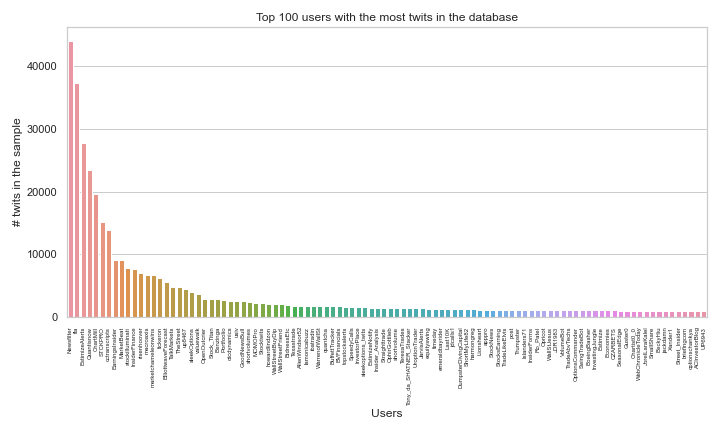
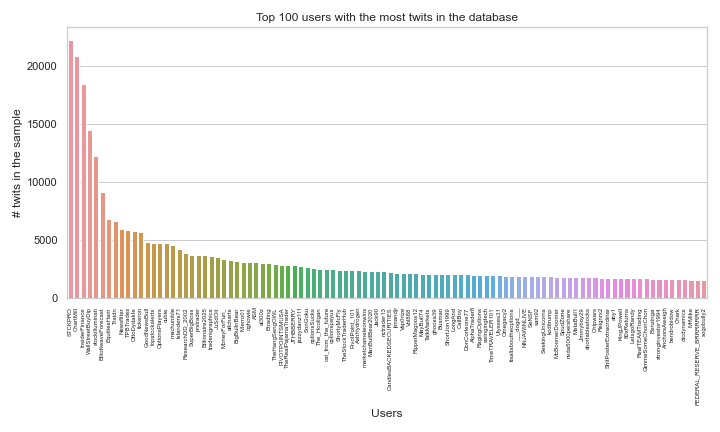
up cleaning

Changed region(s): [[0.0, 0.1204, 1.0, 0.9329], [0.0306, 0.5417, 0.0917, 0.6019]]

diff --git a/CODE/2.CleanDataset.py b/CODE/2.CleanDataset.py
@@ -29,7 +29,7 @@ from pymongo.mongo_client import MongoClient
 os.chdir("C:/Users/ncardenafria/Documents/GitHub/ReplicationRenault2020/")
 export_on = False
 
-#%% Connect to MongoDB and call the DB
+#%% Connect to MongoDB 
 #mongodb password stocktwits
 uri = "mongodb+srv://nataliacardenas:stocktwits@twits.mgv4dfh.mongodb.net/?retryWrites=true&w=majority&appName=Twits"
 
@@ -43,13 +43,15 @@ try:
 except Exception as e:
     print(e)
  
-### Call the database
+#%% Call the database
 db = client["StockTwits"]
-#call only what is needed, else it is going to be super heavy to load 
-#df = pd.DataFrame(db["twits_v2"].find({}))
 
 # Call only the first 100 documents -> test the function 
-dfx = pd.DataFrame(list(db["twits_v2"].find({}).limit(100)))
+#dfx = pd.DataFrame(list(db["twits_v2"].find({}).limit(100)))
+
+#call only what is needed, else it is going to be super heavy to load 
+#df = pd.DataFrame(db["twits"].find({"sentiment": {"$ne": ""}}, {"content": 1, 'user':1, "_id": 1}))
+
 
 #%% cashtag, linktag, usertag 
 
@@ -82,49 +84,18 @@ def clean_content(text):
 #     dfx.loc[i,"c_content"] = clean_content(dfx.loc[i,"content"])
 # dfxx = dfx[["content", "c_content"]]
 
-#### UPDATE DATABASE: not working very well
-def get_c_content(collection, batch_size=10000):
-    """
-    Update the documents in a MongoDB collection by adding a new field 'c_content' with cleaned content.
-    Split upload in batches of size 10000 to avoid having DocumentTooLarge error with bulk update
-
-    Parameters
-    ----------
-    collection : pymongo.collection.Collection
-        The MongoDB collection to update. Use db["twits_v2"].
-
-    batch_size : int, optional
-        The number of documents to process in each batch. Default is 10000.
-
-    Returns
-    -------
-    None
-    """
-    total_docs = collection.count_documents({})
-    for i in range(0, total_docs, batch_size):
-        cursor = list(collection.find({}, skip=i, limit=batch_size))
-        updates = [{"$set": {"c_content": clean_content(doc["content"])}} for doc in cursor]
-        if updates:
-            collection.bulk_write([pymongo.UpdateOne({"_id": doc["_id"]}, update) for doc, update in zip(cursor, updates)])
-        print(i) #just to be able to follow in the console
-
-# Call the update function
-#get_c_content(db["test"])
-
-
-
 
 #%% Find bots and remove them from database
 
-db["twits_v2"].count_documents({}) #1007170 docs
+tot = db["twits_v2"].count_documents({}) #2 236 664 docs
 
 # Get all the users from the collection
 user_data = list(db["twits_v2"].find({}, {"user": 1}))                            #list of dictionnaries
 user_ids = [data["user"] for data in user_data]     #get only the ids
-len(list(set(user_ids))) #62832 unique users 
+len(list(set(user_ids))) #91555 unique users 
 
 # Get 1% of users with highest frequencies
-top_users = Counter(user_ids).most_common(628)
+top_users = Counter(user_ids).most_common(915) # 1% top users
 top_users = pd.DataFrame(top_users[:100])
 
 # Plot 100 top users
@@ -142,54 +113,61 @@ if export_on:
     plt.show()
 
 
-# select users with more than 5k messages ~ 0.5% of the sample 
+# select users with more than 5k messages ~ 0.25% of the sample 
 top_users = top_users[top_users[1] > 5000]
-len(top_users)                      #end up with 16 users to be removed
-top_users[1].sum()                  #247579 messages to be deleted
+len(top_users)                      #end up with 12 users to be removed
+top_users[1].sum()                  #134234 messages to be deleted
 top_users = list(top_users[0])                 
 
 #%% Update database 
 # get dummy bot, cleaned version of the data + dummy if the lenght text >= 3 as in the paper
 
-i=0
-for document in db["twits_v2"].find():
-    user = document["user"]
-    text = document["content"]
-    is_bot = 1 if user in top_users else 0
-    cleaned = clean_content(text)
-    db["twits_v2"].update_one({"_id": document["_id"]}, {"$set": {"is_bot": is_bot}})
-    db["twits_v2"].update_one({"_id": document["_id"]}, {"$set": {"c_content": cleaned}})
-    #to follow 
-    print(i)
-    i+=1
-
-
-i=0
-for document in db["test"].find({}):
-    user = document["user"]
-    text = document["content"]
-    n = len(list(text.split(" ")))
+# i=0
+# for document in db["test"].find({}):
+#     user = document["user"]
+#     text = document["content"]
+#     n = len(list(text.split(" ")))
     
-    is_bot = 1 if user in top_users else 0
-    n_three = 1 if n>=3 else 0
-    cleaned = clean_content(text)
+#     is_bot = 1 if user in top_users else 0
+#     n_three = 1 if n>=3 else 0
+#     cleaned = clean_content(text)
     
-    db["test"].update_one({"_id": document["_id"]}, {"$set": {"is_bot": is_bot}})
-    db["test"].update_one({"_id": document["_id"]}, {"$set": {"c_content": cleaned}})
-    db["test"].update_one({"_id": document["_id"]}, {"$set": {"n_three": n_three}})
+#     db["test"].update_one({"_id": document["_id"]}, {"$set": {"is_bot": is_bot}})
+#     db["test"].update_one({"_id": document["_id"]}, {"$set": {"c_content": cleaned}})
+#     db["test"].update_one({"_id": document["_id"]}, {"$set": {"n_three": n_three}})
     
-    #to follow 
-    print(i)
-    i+=1
+#     #to follow 
+#     print(i)
+#     i+=1
 
 
+# Define a function for processing a subset of documents
+def process_subset(subset):
+    for document in subset:
+        user = document["user"]
+        text = document["content"]
+        n = len(list(text.split(" ")))
+        
+        is_bot = 1 if user in top_users else 0
+        cleaned = clean_content(text)
+        n_three = 1 if n>=3 else 0
+        
+        db["twits_v2"].update_one({"_id": document["_id"]}, {"$set": {"is_bot": is_bot}})
+        db["twits_v2"].update_one({"_id": document["_id"]}, {"$set": {"c_content": cleaned}})
+        db["twits_v2"].update_one({"_id": document["_id"]}, {"$set": {"n_three": n_three}})
+        print(".")
 
+# Define the number of processes (computers) for parallel processing
+num_processes = 4  # Adjust according to available resources
 
-#%% Organize messages by date ie 4pm t-1 to 4pm t 
+# Divide the dataset into smaller subsets
+subset_size = tot // num_processes
+# subsets = []
+# for i in range(num_processes):
+#     subset = list(db["twits_v2"].find().skip(i * subset_size).limit(subset_size))
+#     subsets.append(subset)
 
+nb_process = int(input("What process are we in? "))
+subset = list(db["twits_v2"].find({"sentiment": {"$ne": ""}}, {"content": 1, 'user':1, "_id": 1}).skip(nb_process * subset_size).limit(subset_size))
 
-
-
-
-
-#%% Force balanced database 
+process_subset(subset)

diff --git a/CODE/3.SizeDataset_NaiveBayes.py b/CODE/3.SizeDataset_NaiveBayes.py
@@ -103,6 +103,11 @@ for i in [500,1000]:
      results_bal.append({'Sample Size': i, 'Accuracy': acc_mean, 'MCC': mcc_mean, "Time":f"{m} min, {s} sec"})
     
     
-    
+#%% Results
+results = df.DataFrame(results)
+results_bal = df.DataFrame(results_bal)
+
+print(results.to_latex(index=False))
+print(results_bal.to_latex(index=False))
 
 

diff --git a/CODE/1Scrapping_vf.py b/CODE/1Scrapping_vf.py
@@ -178,7 +178,6 @@ def scrapping(collection, tickers_list, last_day, t, error_t):
 #    convert_file.write(json.dumps(benchmarks))
 
 stock_list = ["AAPL","AMZN","FB","GOOG","MSFT","NVDA","TSLA"]
-stock_list = ["GOOG","MSFT","NVDA"]
 end_day = datetime(2021,12,31)
 t=0.005
 error_t = 15
